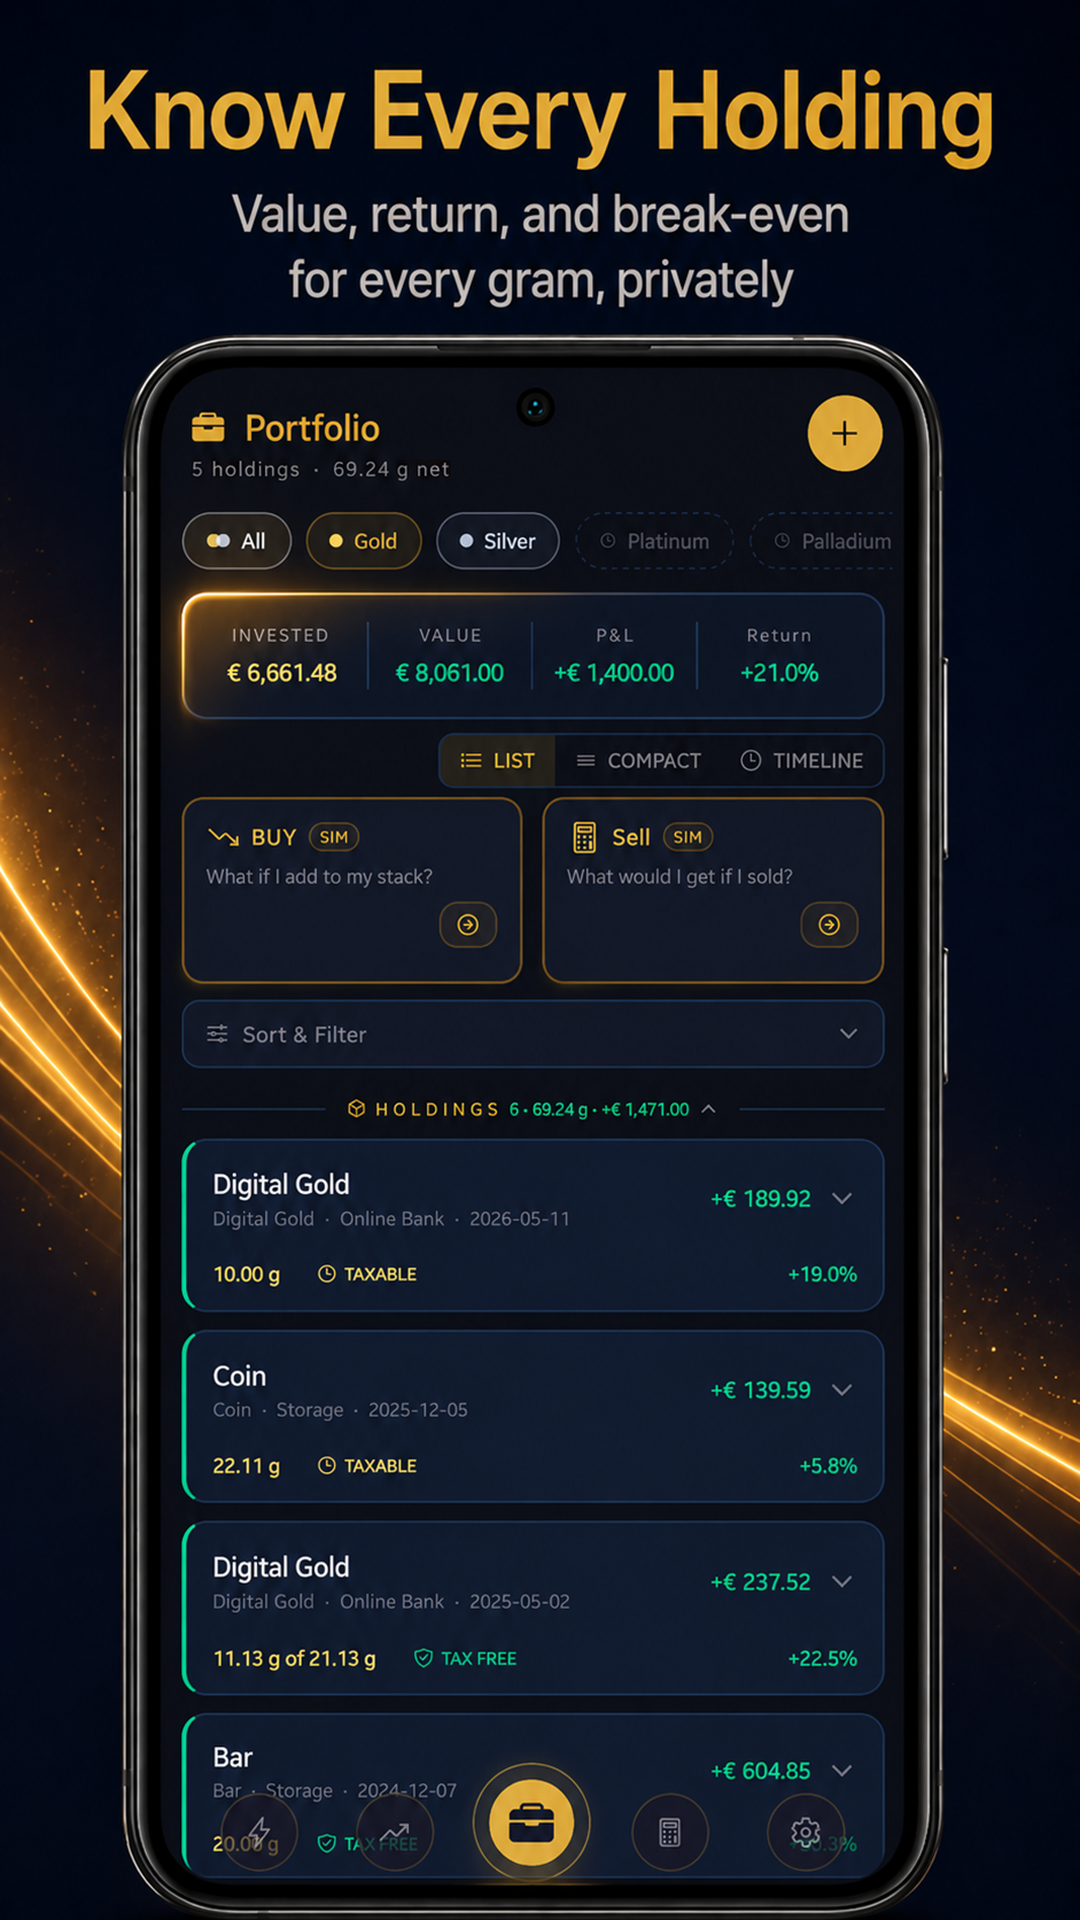
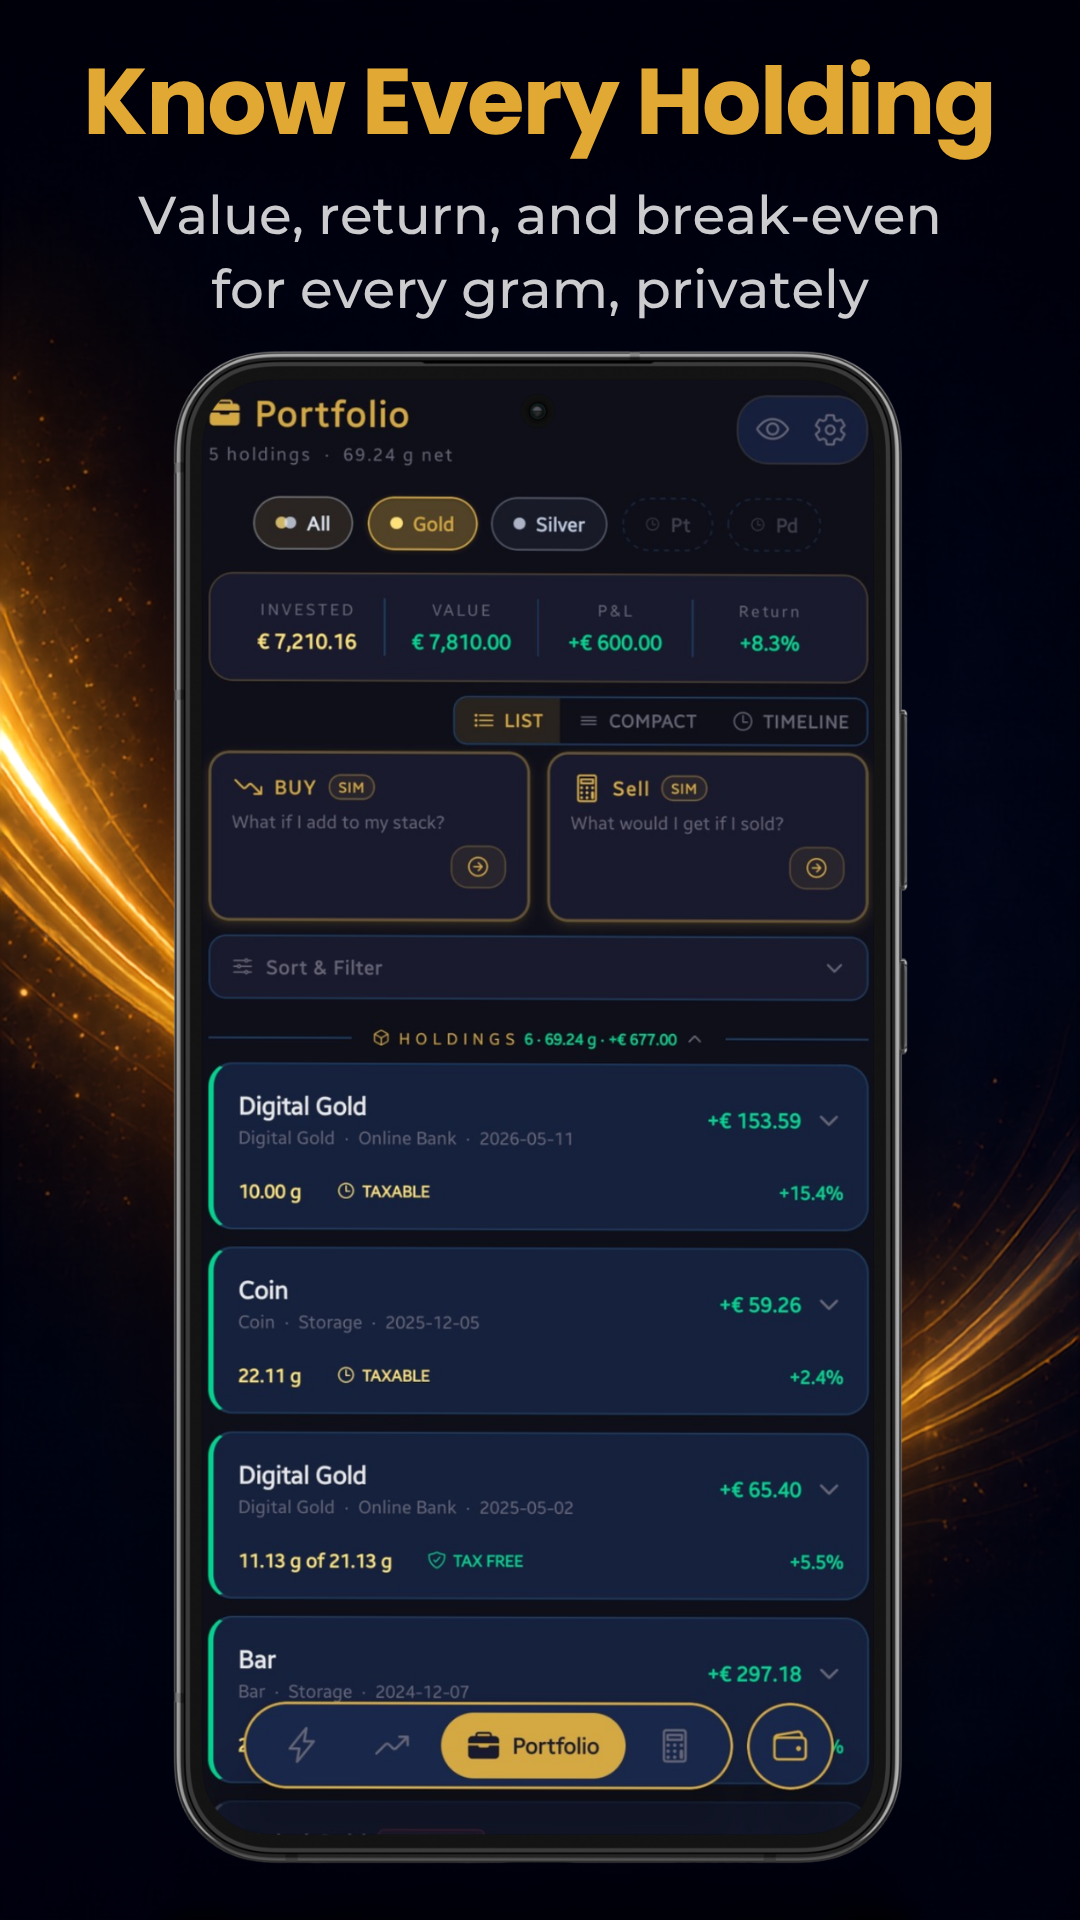
chore: v3.3.0 Replace EN images and update version and changelog for EN

diff --git a/roadmap/index.html b/roadmap/index.html
@@ -99,7 +99,7 @@ height="0" width="0" style="display:none;visibility:hidden"></iframe></noscript>
       <div class="relative max-w-6xl mx-auto px-6 py-12 md:py-16">
         <p class="text-xs font-bold tracking-[0.22em] text-gold uppercase mb-3">Product roadmap</p>
         <div class="max-w-3xl">
-          <div class="inline-flex rounded-full border border-mint/35 bg-mint/10 px-3 py-1 text-xs font-bold text-mint mb-4">v3.2.0 live</div>
+          <div class="inline-flex rounded-full border border-mint/35 bg-mint/10 px-3 py-1 text-xs font-bold text-mint mb-4">v3.3.0 live</div>
           <h1 class="text-3xl md:text-5xl font-black text-white mb-4">From release to refinement</h1>
           <p class="text-base text-gray-300">A public view of what is live, what is being stabilized, and what we are exploring next.</p>
         </div>
@@ -121,6 +121,7 @@ height="0" width="0" style="display:none;visibility:hidden"></iframe></noscript>
             <li class="rounded-xl border border-white/10 bg-white/[0.035] px-4 py-3 hover:border-gold/30 transition"><span class="block font-semibold text-white">BRL display currency</span><span class="roadmap-benefit mt-1 block text-xs text-gray-500">Available now in production.</span></li>
             <li class="rounded-xl border border-white/10 bg-white/[0.035] px-4 py-3 hover:border-gold/30 transition"><span class="block font-semibold text-white">Premium badge visual polish</span><span class="roadmap-benefit mt-1 block text-xs text-gray-500">Available now in production.</span></li>
             <li class="rounded-xl border border-white/10 bg-white/[0.035] px-4 py-3 hover:border-gold/30 transition"><span class="block font-semibold text-white">First-party feedback hub</span><span class="roadmap-benefit mt-1 block text-xs text-gray-500">Available now in production.</span></li>
+            <li class="rounded-xl border border-white/10 bg-white/[0.035] px-4 py-3 hover:border-gold/30 transition"><span class="block font-semibold text-white">Redesigned navigation and price cards</span><span class="roadmap-benefit mt-1 block text-xs text-gray-500">Cleaner, faster, and more consistent across every screen.</span></li>
           </ul>
         </article>
 

diff --git a/changelog/index.html b/changelog/index.html
@@ -82,6 +82,18 @@ height="0" width="0" style="display:none;visibility:hidden"></iframe></noscript>
     <div class="space-y-4">
       <article class="rounded-xl border border-gold/35 bg-gold/10 p-5">
         <div class="flex items-center justify-between mb-2">
+          <h2 class="text-base font-extrabold text-white">v3.3.0</h2>
+          <span class="text-xs text-gold font-bold uppercase">Fresh look</span>
+        </div>
+        <ul class="text-sm text-gray-300 space-y-1.5">
+          <li>Redesigned navigation with quick actions on every screen</li>
+          <li>Cleaner, unified live price cards with a more compact layout</li>
+          <li>Refinements across the app and reliability fixes</li>
+        </ul>
+      </article>
+
+      <article class="rounded-xl border border-border/30 bg-navy-light/55 p-5">
+        <div class="flex items-center justify-between mb-2">
           <h2 class="text-base font-extrabold text-white">v3.2.0</h2>
           <span class="text-xs text-gold font-bold uppercase">Precious metals</span>
         </div>

diff --git a/version.js b/version.js
@@ -3,7 +3,7 @@
 // All pages include this script and use data-mgf-version / data-mgf-version-bare
 // attributes as placeholders — this script populates them at load time.
 (function () {
-  var VERSION = '3.2.0';
+  var VERSION = '3.3.0';
   document.querySelectorAll('[data-mgf-version]').forEach(function (el) {
     el.textContent = 'v' + VERSION;
   });
